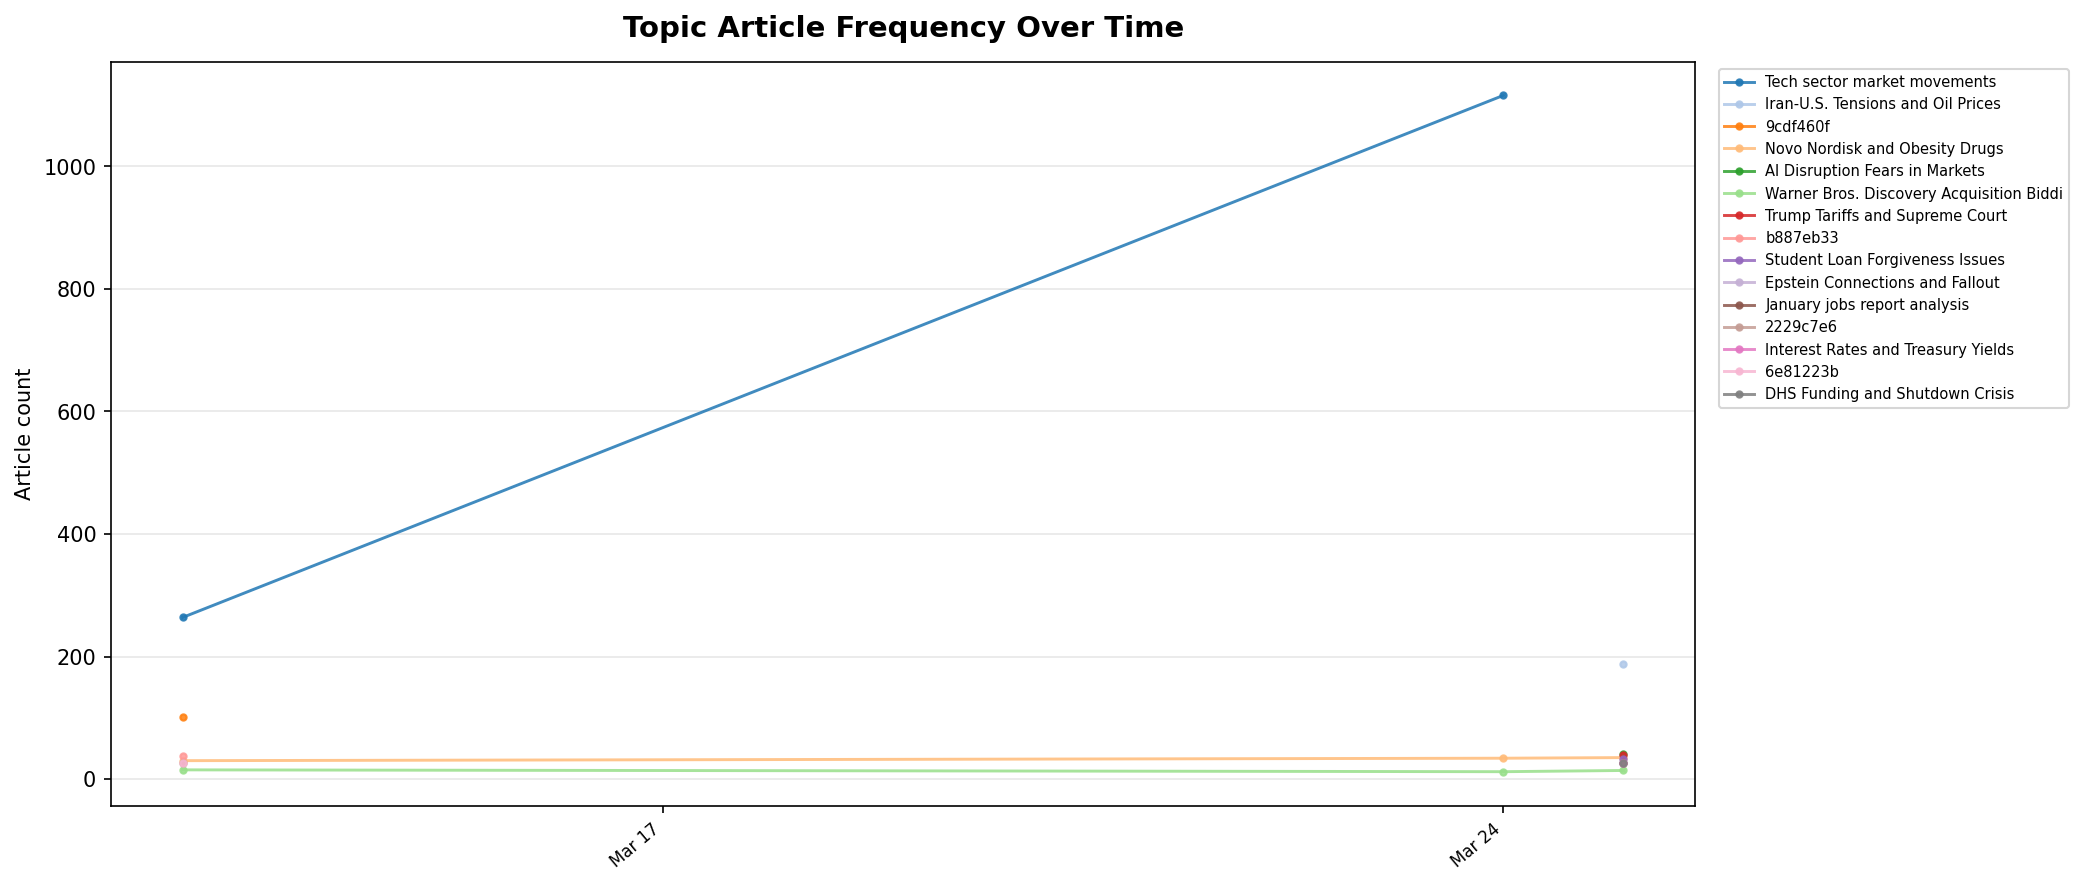
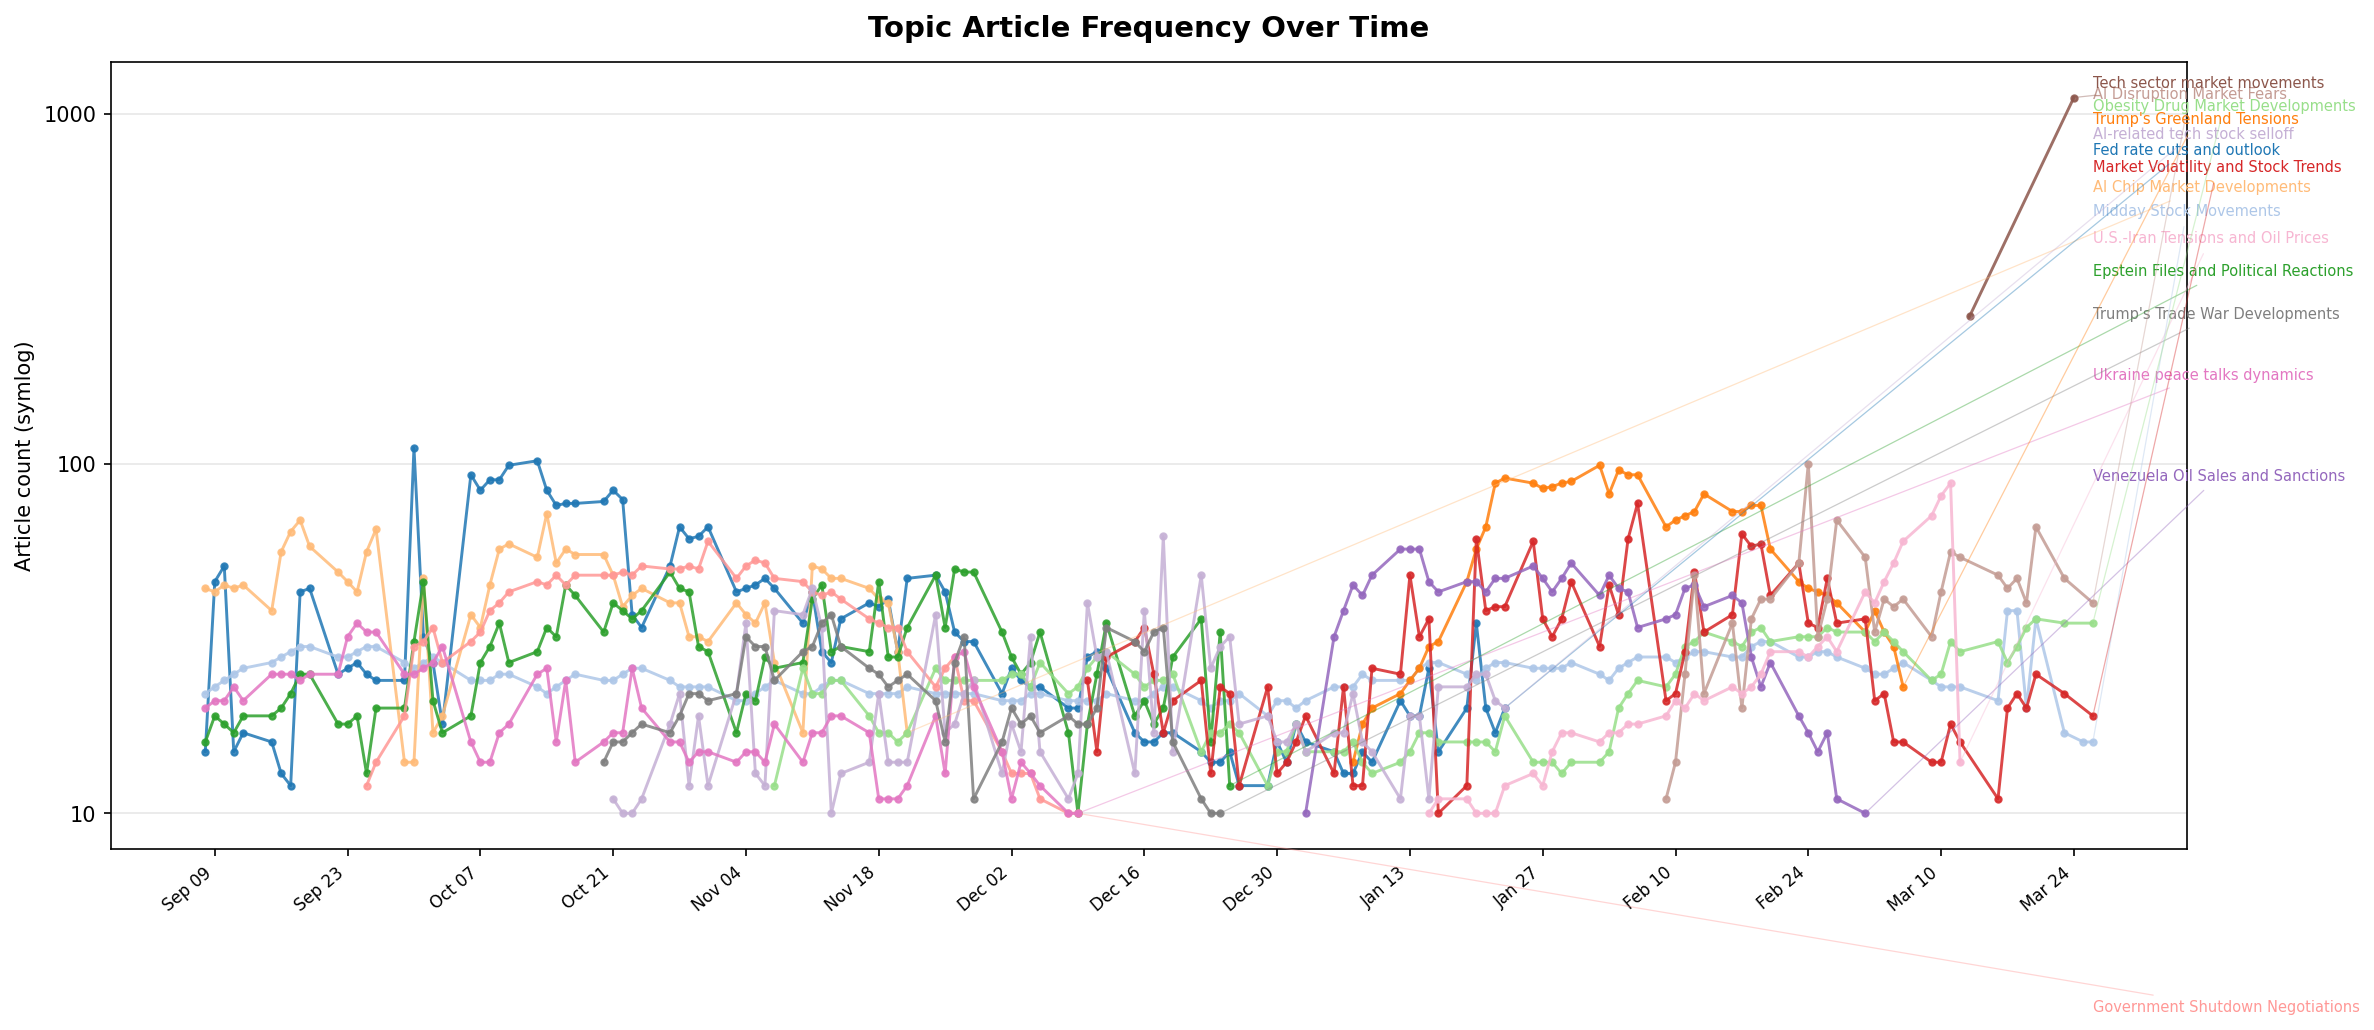
feat(visualize-topics): add timeline chart, LogNorm heatmap, symlog freq chart
- Chart C: Gantt-style topic_timeline.png (first->last appearance per topic,
  bar darkness encodes total article volume)
- Heatmap: LogNorm colour scale prevents outliers from washing out the palette;
  inactive cells render blank (0 -> NaN)
- Frequency chart: symlog Y-axis + direct end-of-line labels replace legend box
- Default --days raised from 90 to 200 to cover full backfill history

diff --git a/visualize_topics.py b/visualize_topics.py
@@ -9,13 +9,17 @@ Generates two topic-trend charts from data/topic_trends.tsv:
   B) topic_frequency_ts.png   — line chart, article_count per top-N topic over time
      Shows the rise and fall of each narrative as a story arc.
 
+  C) topic_timeline.png       — Gantt chart, one bar per topic: first → last appearance
+     Shows topic lifespans; bar darkness encodes total article volume.
+
 Usage:
-    python visualize_topics.py              # top 15 topics, last 90 days
+    python visualize_topics.py              # top 15 topics, last 200 days
     python visualize_topics.py --top 20     # top 20 topics
-    python visualize_topics.py --days 60    # last 60 days only
+    python visualize_topics.py --days 90    # last 90 days only
 
 Outputs: data/charts/topic_spike_heatmap.png
          data/charts/topic_frequency_ts.png
+         data/charts/topic_timeline.png
 
 Invariants:
     - Reads only data/topic_trends.tsv — no API calls.
@@ -40,6 +44,8 @@ import matplotlib
 matplotlib.use("Agg")   # non-interactive backend — safe for CI / headless
 import matplotlib.pyplot as plt
 import matplotlib.dates as mdates
+import matplotlib.ticker
+from matplotlib.colors import LogNorm
 import pandas as pd
 import seaborn as sns
 
@@ -103,10 +109,12 @@ def plot_spike_heatmap(df: pd.DataFrame, top_ids: list[str], out_path: Path) -> 
     )
 
     # Pivot: index=date, columns=label, values=article_count
+    # Replace 0/missing with NaN so inactive cells render blank under LogNorm.
     pivot = (
         subset.pivot_table(index="date", columns="topic_id",
                            values="article_count", aggfunc="max")
               .fillna(0)
+              .replace(0, float("nan"))
               .rename(columns=label_map)
     )
     pivot.index = pivot.index.strftime("%Y-%m-%d")
@@ -115,7 +123,10 @@ def plot_spike_heatmap(df: pd.DataFrame, top_ids: list[str], out_path: Path) -> 
     pivot.columns = [c[:35] for c in pivot.columns]
 
     n_dates, n_topics = pivot.shape
-    fig_h = max(6, n_dates * 0.22)
+    # Scale row height down for large windows so the image stays manageable.
+    # ≤90 rows → 0.22 in/row; 150 rows → 0.16 in/row; linear interpolation.
+    row_h = max(0.14, 0.22 - (n_dates - 90) * 0.001) if n_dates > 90 else 0.22
+    fig_h = max(8, n_dates * row_h)
     fig_w = max(10, n_topics * 0.9)
 
     fig, ax = plt.subplots(figsize=(fig_w, fig_h))
@@ -123,10 +134,10 @@ def plot_spike_heatmap(df: pd.DataFrame, top_ids: list[str], out_path: Path) -> 
         pivot,
         ax=ax,
         cmap="YlOrRd",
+        norm=LogNorm(vmin=1),   # log scale — prevents outliers from washing out the palette
         linewidths=0.3,
         linecolor="#e0e0e0",
-        cbar_kws={"label": "article count", "shrink": 0.6},
-        vmin=0,
+        cbar_kws={"label": "article count (log scale)", "shrink": 0.6},
         annot=False,
     )
     ax.set_title("Topic Activity Heatmap (article count per day)", fontsize=14, fontweight="bold", pad=12)
@@ -145,7 +156,9 @@ def plot_spike_heatmap(df: pd.DataFrame, top_ids: list[str], out_path: Path) -> 
 def plot_frequency_ts(df: pd.DataFrame, top_ids: list[str], out_path: Path) -> None:
     """Line chart: article_count per top topic over time.
 
-    Each topic gets its own line. Topics with no label use their topic_id prefix.
+    Each topic gets its own line with a direct end-of-line label so readers
+    don't have to cross-reference a legend box.  Y-axis uses a symlog scale so
+    a single outlier spike cannot compress all other lines to the baseline.
     """
     subset = df[df["topic_id"].isin(top_ids)].copy()
 
@@ -155,8 +168,11 @@ def plot_frequency_ts(df: pd.DataFrame, top_ids: list[str], out_path: Path) -> N
               .last()
     )
 
-    fig, ax = plt.subplots(figsize=(14, 6))
+    fig, ax = plt.subplots(figsize=(16, 7))
     palette = sns.color_palette("tab20", n_colors=len(top_ids))
+
+    # Track last (date, value) per topic for end-of-line annotations.
+    endpoints: list[tuple] = []
 
     for tid, color in zip(top_ids, palette):
         topic_df = subset[subset["topic_id"] == tid].sort_values("date")
@@ -164,24 +180,133 @@ def plot_frequency_ts(df: pd.DataFrame, top_ids: list[str], out_path: Path) -> N
         ax.plot(
             topic_df["date"],
             topic_df["article_count"],
-            label=label[:40],
             color=color,
             linewidth=1.4,
             marker="o",
             markersize=3,
             alpha=0.85,
         )
+        if not topic_df.empty:
+            last = topic_df.iloc[-1]
+            endpoints.append((last["date"], last["article_count"], label[:40], color))
+
+    # Direct end-of-line labels.
+    # Sort by last value so the label order matches the visual order of lines.
+    # Spread label y-positions evenly across the data range to avoid overlap.
+    endpoints.sort(key=lambda t: t[1])
+    y_vals  = [e[1] for e in endpoints]
+    y_lo    = max(1, min(y_vals) * 0.5)
+    y_hi    = max(y_vals) * 1.1
+    n       = len(endpoints)
+    import numpy as np
+    y_slots = list(np.linspace(y_lo, y_hi, n)) if n > 1 else [y_lo]
+    x_max   = df["date"].max()
+
+    for (x, y, lbl, color), y_text in zip(endpoints, y_slots):
+        ax.annotate(
+            lbl,
+            xy=(x, y),
+            xytext=(x_max, y_text),
+            fontsize=7,
+            color=color,
+            va="center",
+            arrowprops=dict(arrowstyle="-", color=color, lw=0.6, alpha=0.4),
+        )
+
+    # symlog scale: linear near 0, log elsewhere — outlier spikes don't crush
+    # low-activity topics. linthresh = smallest meaningful value (1 article).
+    ax.set_yscale("symlog", linthresh=10)
+    ax.yaxis.set_major_formatter(matplotlib.ticker.ScalarFormatter())
 
     ax.xaxis.set_major_formatter(mdates.DateFormatter("%b %d"))
-    ax.xaxis.set_major_locator(mdates.WeekdayLocator(interval=1))
+    ax.xaxis.set_major_locator(mdates.WeekdayLocator(interval=2))
     plt.xticks(rotation=40, ha="right", fontsize=8)
     ax.set_title("Topic Article Frequency Over Time", fontsize=14,
                  fontweight="bold", pad=12)
     ax.set_xlabel("")
-    ax.set_ylabel("Article count")
-    ax.legend(loc="upper left", bbox_to_anchor=(1.01, 1),
-              fontsize=7, framealpha=0.8)
+    ax.set_ylabel("Article count (symlog)")
     ax.grid(axis="y", alpha=0.3)
+
+    fig.tight_layout()
+    _save_figure(fig, out_path)
+    print(f"  Saved: {out_path}")
+
+
+# ── Chart C: topic lifespan timeline (Gantt) ─────────────────────────────────
+
+def plot_topic_timeline(df: pd.DataFrame, top_ids: list[str], out_path: Path) -> None:
+    """Gantt chart: one bar per topic showing first → last appearance date.
+
+    Bars are sorted top-to-bottom by first_seen (oldest narrative at the top).
+    Bar width encodes total active days; bar colour encodes total article count
+    (darker = more coverage overall).
+    """
+    subset = df[df["topic_id"].isin(top_ids)].copy()
+
+    label_map = (
+        subset.sort_values("date")
+              .groupby("topic_id")["label"]
+              .last()
+    )
+
+    # Compute per-topic span and total coverage.
+    agg = (
+        subset.groupby("topic_id")
+              .agg(first_seen=("date", "min"),
+                   last_seen=("date", "max"),
+                   total_articles=("article_count", "sum"))
+              .reset_index()
+    )
+    agg["label"] = agg["topic_id"].map(label_map)
+    agg = agg.sort_values("first_seen")   # oldest narrative at the top
+
+    n = len(agg)
+    fig_h = max(5, n * 0.45)
+    fig, ax = plt.subplots(figsize=(14, fig_h))
+
+    # Normalise total_articles → [0.3, 1.0] for alpha (more coverage = darker).
+    t_min, t_max = agg["total_articles"].min(), agg["total_articles"].max()
+    norm_alpha = lambda v: 0.35 + 0.65 * (v - t_min) / max(t_max - t_min, 1)
+
+    palette = sns.color_palette("tab20", n_colors=n)
+
+    for i, (_, row) in enumerate(agg.iterrows()):
+        start    = row["first_seen"]
+        end      = row["last_seen"]
+        duration = (end - start).days + 1
+        color    = palette[i]
+        alpha    = norm_alpha(row["total_articles"])
+
+        ax.barh(
+            y=i,
+            width=duration,
+            left=start,
+            height=0.6,
+            color=color,
+            alpha=alpha,
+            edgecolor="white",
+            linewidth=0.4,
+        )
+        # Label inside bar if wide enough, otherwise to the right.
+        label_x = start + pd.Timedelta(days=duration / 2)
+        if duration >= 14:
+            ax.text(label_x, i, row["label"][:35],
+                    ha="center", va="center", fontsize=7,
+                    color="black", fontweight="bold")
+        else:
+            ax.text(end + pd.Timedelta(days=2), i, row["label"][:35],
+                    ha="left", va="center", fontsize=7, color=color)
+
+    ax.set_yticks(range(n))
+    ax.set_yticklabels([""] * n)   # labels already drawn inline
+    ax.xaxis.set_major_formatter(mdates.DateFormatter("%b '%y"))
+    ax.xaxis.set_major_locator(mdates.MonthLocator())
+    plt.xticks(rotation=30, ha="right", fontsize=8)
+    ax.set_title("Topic Lifespans (first → last appearance)", fontsize=14,
+                 fontweight="bold", pad=12)
+    ax.set_xlabel("")
+    ax.grid(axis="x", alpha=0.3, linestyle="--")
+    ax.invert_yaxis()   # oldest topic at the top
 
     fig.tight_layout()
     _save_figure(fig, out_path)
@@ -204,7 +329,7 @@ def _save_figure(fig: plt.Figure, out_path: Path) -> None:
 def main() -> None:
     p = argparse.ArgumentParser(description="Visualize topic trends")
     p.add_argument("--top",  type=int, default=15, help="Top N topics (default: 15)")
-    p.add_argument("--days", type=int, default=90, help="Lookback window in days (default: 90)")
+    p.add_argument("--days", type=int, default=200, help="Lookback window in days (default: 200)")
     args = p.parse_args()
 
     print(f"=== Topic Visualizations (top={args.top}, days={args.days}) ===")
@@ -219,6 +344,9 @@ def main() -> None:
 
     print("Generating frequency time series...")
     plot_frequency_ts(df, top_ids, CHARTS_DIR / "topic_frequency_ts.png")
+
+    print("Generating topic timeline...")
+    plot_topic_timeline(df, top_ids, CHARTS_DIR / "topic_timeline.png")
 
     print("\nDone.")
 